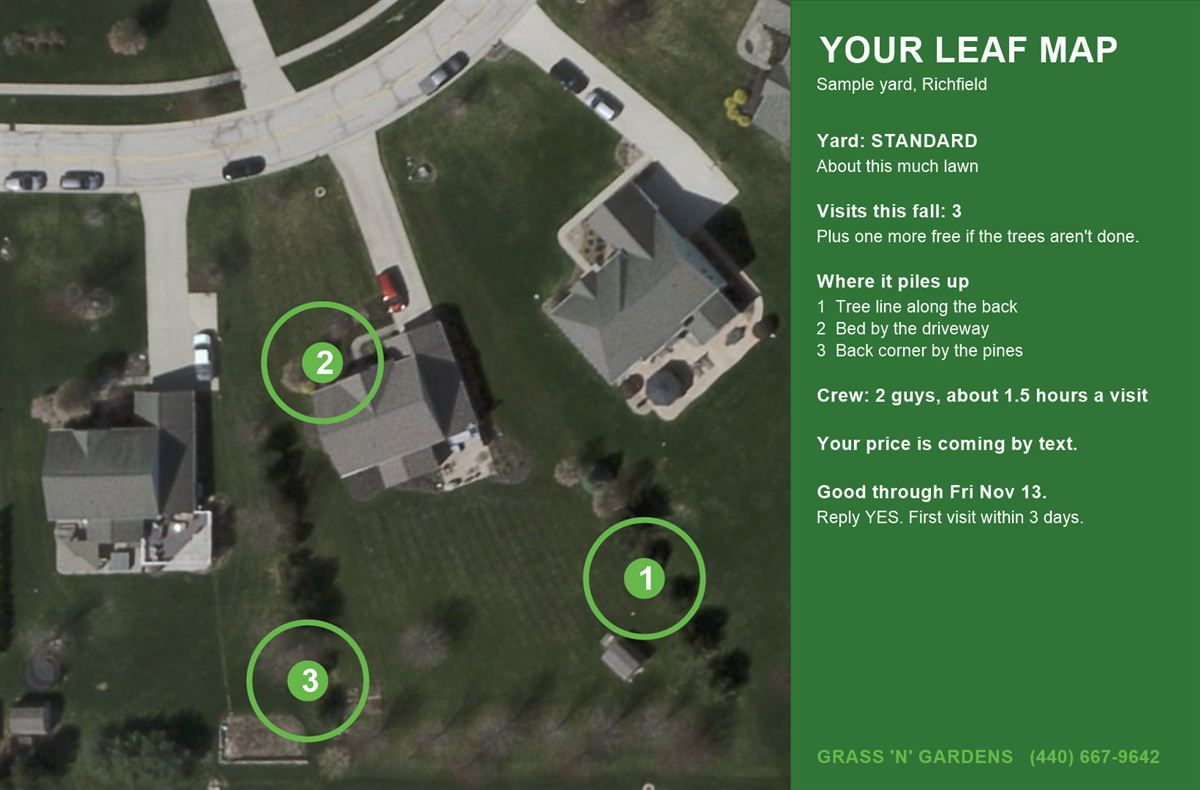
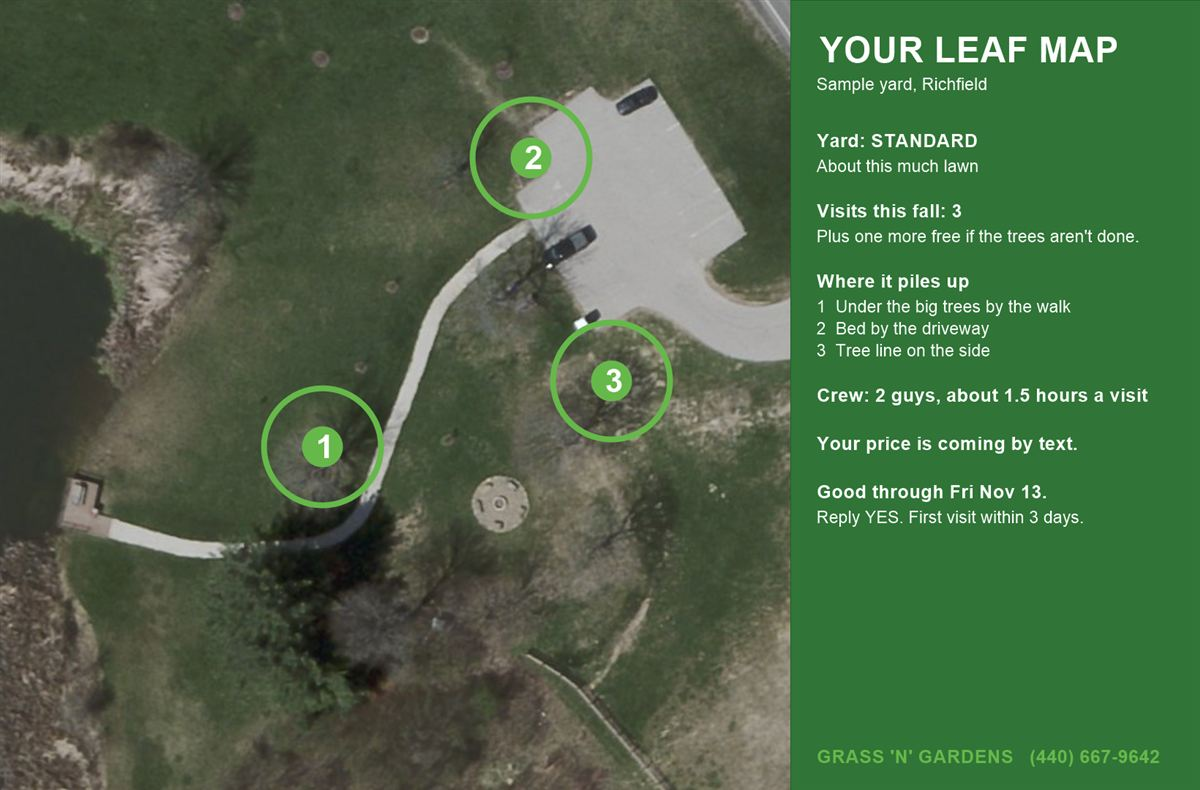
Sample Leaf Map moved off a private home to public park land (Babb's Orchard Park lawn); sw v45

diff --git a/sw.js b/sw.js
@@ -2,7 +2,7 @@
 // Pages: always try the internet first (so a new push shows up right away), fall back to the saved copy,
 // then to app/offline.html. Photos, CSS and fonts: show the saved copy fast, refresh it in the background.
 // Bump VERSION if this file's rules change. Lives next to the homepage, so in the repo it covers the whole site.
-const VERSION = 'gng-v44'; // 2026-11-04: v44 = Google record 5.0 / 63. v43 = 5.0 / 62. 2026-11-03: v40 = Fall Pass money line (visit 1 at booking, then pay per visit, refund visit 1 if not happy) on fall-cleanup + winter-walk. v36 = the Fall Pass relaunch (set visits + one free, proof every visit, 3-day start, book by Fri 11/13) + Your Leaf Map bands on fall-cleanup (replaced the Winter Walk) + topbar, nav and service-card lines sitewide. v35: 2026-11-03: v35 = HOA page header video (broll-hoa-wide) + Heather B. HOA review under the header. v34 = conversion rounds 3-4: reply promise under the home header button, HOA outlined button, pinned full review, home loop starts on the stripes, phone bar back to the yard plan. v33 = review order (strong at both ends), rows move only once on screen, HOA line in the home header, record row repeat out. v32 = home step 2 (five + ticket one section, 4 service rows) + one small-type scale. v31 = clean-up plan: one banner (topbar leaf/presell), slimmer phone bar, lettering clean-up (chrome.css), home: one hero photo + computer loop, reviews second, reel + quick links out. v30: 2026-10-31: v30 = phone header top padding 64 -> 20px on the video pages (chrome.css). v29: 2026-10-31: v29 = fall-cleanup leaf loop v3 (Riley's 10/30 4K leaf shoot). v28: 2026-10-29 late: v28 = header loops v3 (short shots, no repeats, trimmer + stripes). v27: 2026-10-29: v27 = video headers (fall-cleanup phone strip, lawn-mowing, season-pass v2, five). v26: 2026-10-22: v25 = 2027 save-5% line on the phone bar (chrome.css + footer) + 320px phone fixes (header, section headings). v24 (2026-10-22): v24 = fall aeration last day moved to Sat 10/31 (home strip, aeration Double Pass, soil-check). 2026-10-21: v23 = our-work photos below the header wait for page load (data-src). 2026-10-20: v22 = phone-size crops for all 5 home hero slides (fixes home phone LCP), softer hero shade edges. 2026-10-20 round 3: v21 = Call+Text buttons, skip link, per-page plan links, lighter heroes, 3 fonts, small logo. v20 = round 2. v19 = header videos reverted to photos. 2026-10-19: v18 = header video panel beside the words (v2 B-roll, 4:5, steadied). v17 = header B-roll videos (site.js + chrome.css). v16 = smaller, simpler arrows icon in the Double Pass badge. v15 = /double-pass short link in vercel.json, v15 = Double Pass badge + section (aeration), fix block (soil-check), strip uses the name. v14 = promo strip css in chrome.css, promo strip on home, Soil Check button on aeration page + menu link, topbar line on soil-check. v13 = new aeration + Soil Check hero photos, pass wording. v12 = Soil Check page. 2026-10-13: v11 = flat again (no grain, glows or soft shadows; text 14px+), yard plan first + "Call or text Harrison" ask. 2026-10-08: v10 = less scroll on phones (shorter footer, 2-across service cards, tighter steps, why-gng 3 cards, Menu word on small phones). v9 = speed pass (own fonts, 600px phone card photos, lighter phone heroes). v8 = new before/after pairs from Drive, before/after side by side on phones, service card photos spread out. v7 = Five checks in one 1-5 row, faster review rows on phones. 2026-10-07: v6 (late) = new header (About list + Yard Score button), sharper photos, review drag; v5 = homepage cut-down + about/faq/our-work + phone footer; v4 (late) = reviews.js + review zoom styles; v3 = site.js photo loading + green draft glow
+const VERSION = 'gng-v45'; // 2026-11-04: v45 = sample Leaf Map moved off a private home to Babb's Orchard Park lawn (public). v44: 2026-11-04: v44 = Google record 5.0 / 63. v43 = 5.0 / 62. 2026-11-03: v40 = Fall Pass money line (visit 1 at booking, then pay per visit, refund visit 1 if not happy) on fall-cleanup + winter-walk. v36 = the Fall Pass relaunch (set visits + one free, proof every visit, 3-day start, book by Fri 11/13) + Your Leaf Map bands on fall-cleanup (replaced the Winter Walk) + topbar, nav and service-card lines sitewide. v35: 2026-11-03: v35 = HOA page header video (broll-hoa-wide) + Heather B. HOA review under the header. v34 = conversion rounds 3-4: reply promise under the home header button, HOA outlined button, pinned full review, home loop starts on the stripes, phone bar back to the yard plan. v33 = review order (strong at both ends), rows move only once on screen, HOA line in the home header, record row repeat out. v32 = home step 2 (five + ticket one section, 4 service rows) + one small-type scale. v31 = clean-up plan: one banner (topbar leaf/presell), slimmer phone bar, lettering clean-up (chrome.css), home: one hero photo + computer loop, reviews second, reel + quick links out. v30: 2026-10-31: v30 = phone header top padding 64 -> 20px on the video pages (chrome.css). v29: 2026-10-31: v29 = fall-cleanup leaf loop v3 (Riley's 10/30 4K leaf shoot). v28: 2026-10-29 late: v28 = header loops v3 (short shots, no repeats, trimmer + stripes). v27: 2026-10-29: v27 = video headers (fall-cleanup phone strip, lawn-mowing, season-pass v2, five). v26: 2026-10-22: v25 = 2027 save-5% line on the phone bar (chrome.css + footer) + 320px phone fixes (header, section headings). v24 (2026-10-22): v24 = fall aeration last day moved to Sat 10/31 (home strip, aeration Double Pass, soil-check). 2026-10-21: v23 = our-work photos below the header wait for page load (data-src). 2026-10-20: v22 = phone-size crops for all 5 home hero slides (fixes home phone LCP), softer hero shade edges. 2026-10-20 round 3: v21 = Call+Text buttons, skip link, per-page plan links, lighter heroes, 3 fonts, small logo. v20 = round 2. v19 = header videos reverted to photos. 2026-10-19: v18 = header video panel beside the words (v2 B-roll, 4:5, steadied). v17 = header B-roll videos (site.js + chrome.css). v16 = smaller, simpler arrows icon in the Double Pass badge. v15 = /double-pass short link in vercel.json, v15 = Double Pass badge + section (aeration), fix block (soil-check), strip uses the name. v14 = promo strip css in chrome.css, promo strip on home, Soil Check button on aeration page + menu link, topbar line on soil-check. v13 = new aeration + Soil Check hero photos, pass wording. v12 = Soil Check page. 2026-10-13: v11 = flat again (no grain, glows or soft shadows; text 14px+), yard plan first + "Call or text Harrison" ask. 2026-10-08: v10 = less scroll on phones (shorter footer, 2-across service cards, tighter steps, why-gng 3 cards, Menu word on small phones). v9 = speed pass (own fonts, 600px phone card photos, lighter phone heroes). v8 = new before/after pairs from Drive, before/after side by side on phones, service card photos spread out. v7 = Five checks in one 1-5 row, faster review rows on phones. 2026-10-07: v6 (late) = new header (About list + Yard Score button), sharper photos, review drag; v5 = homepage cut-down + about/faq/our-work + phone footer; v4 (late) = reviews.js + review zoom styles; v3 = site.js photo loading + green draft glow
 const PAGES = VERSION + '-pages';
 const FILES = VERSION + '-files';
 const CORE = ['./', 'app/offline.html', 'app/icon-192.png'];
